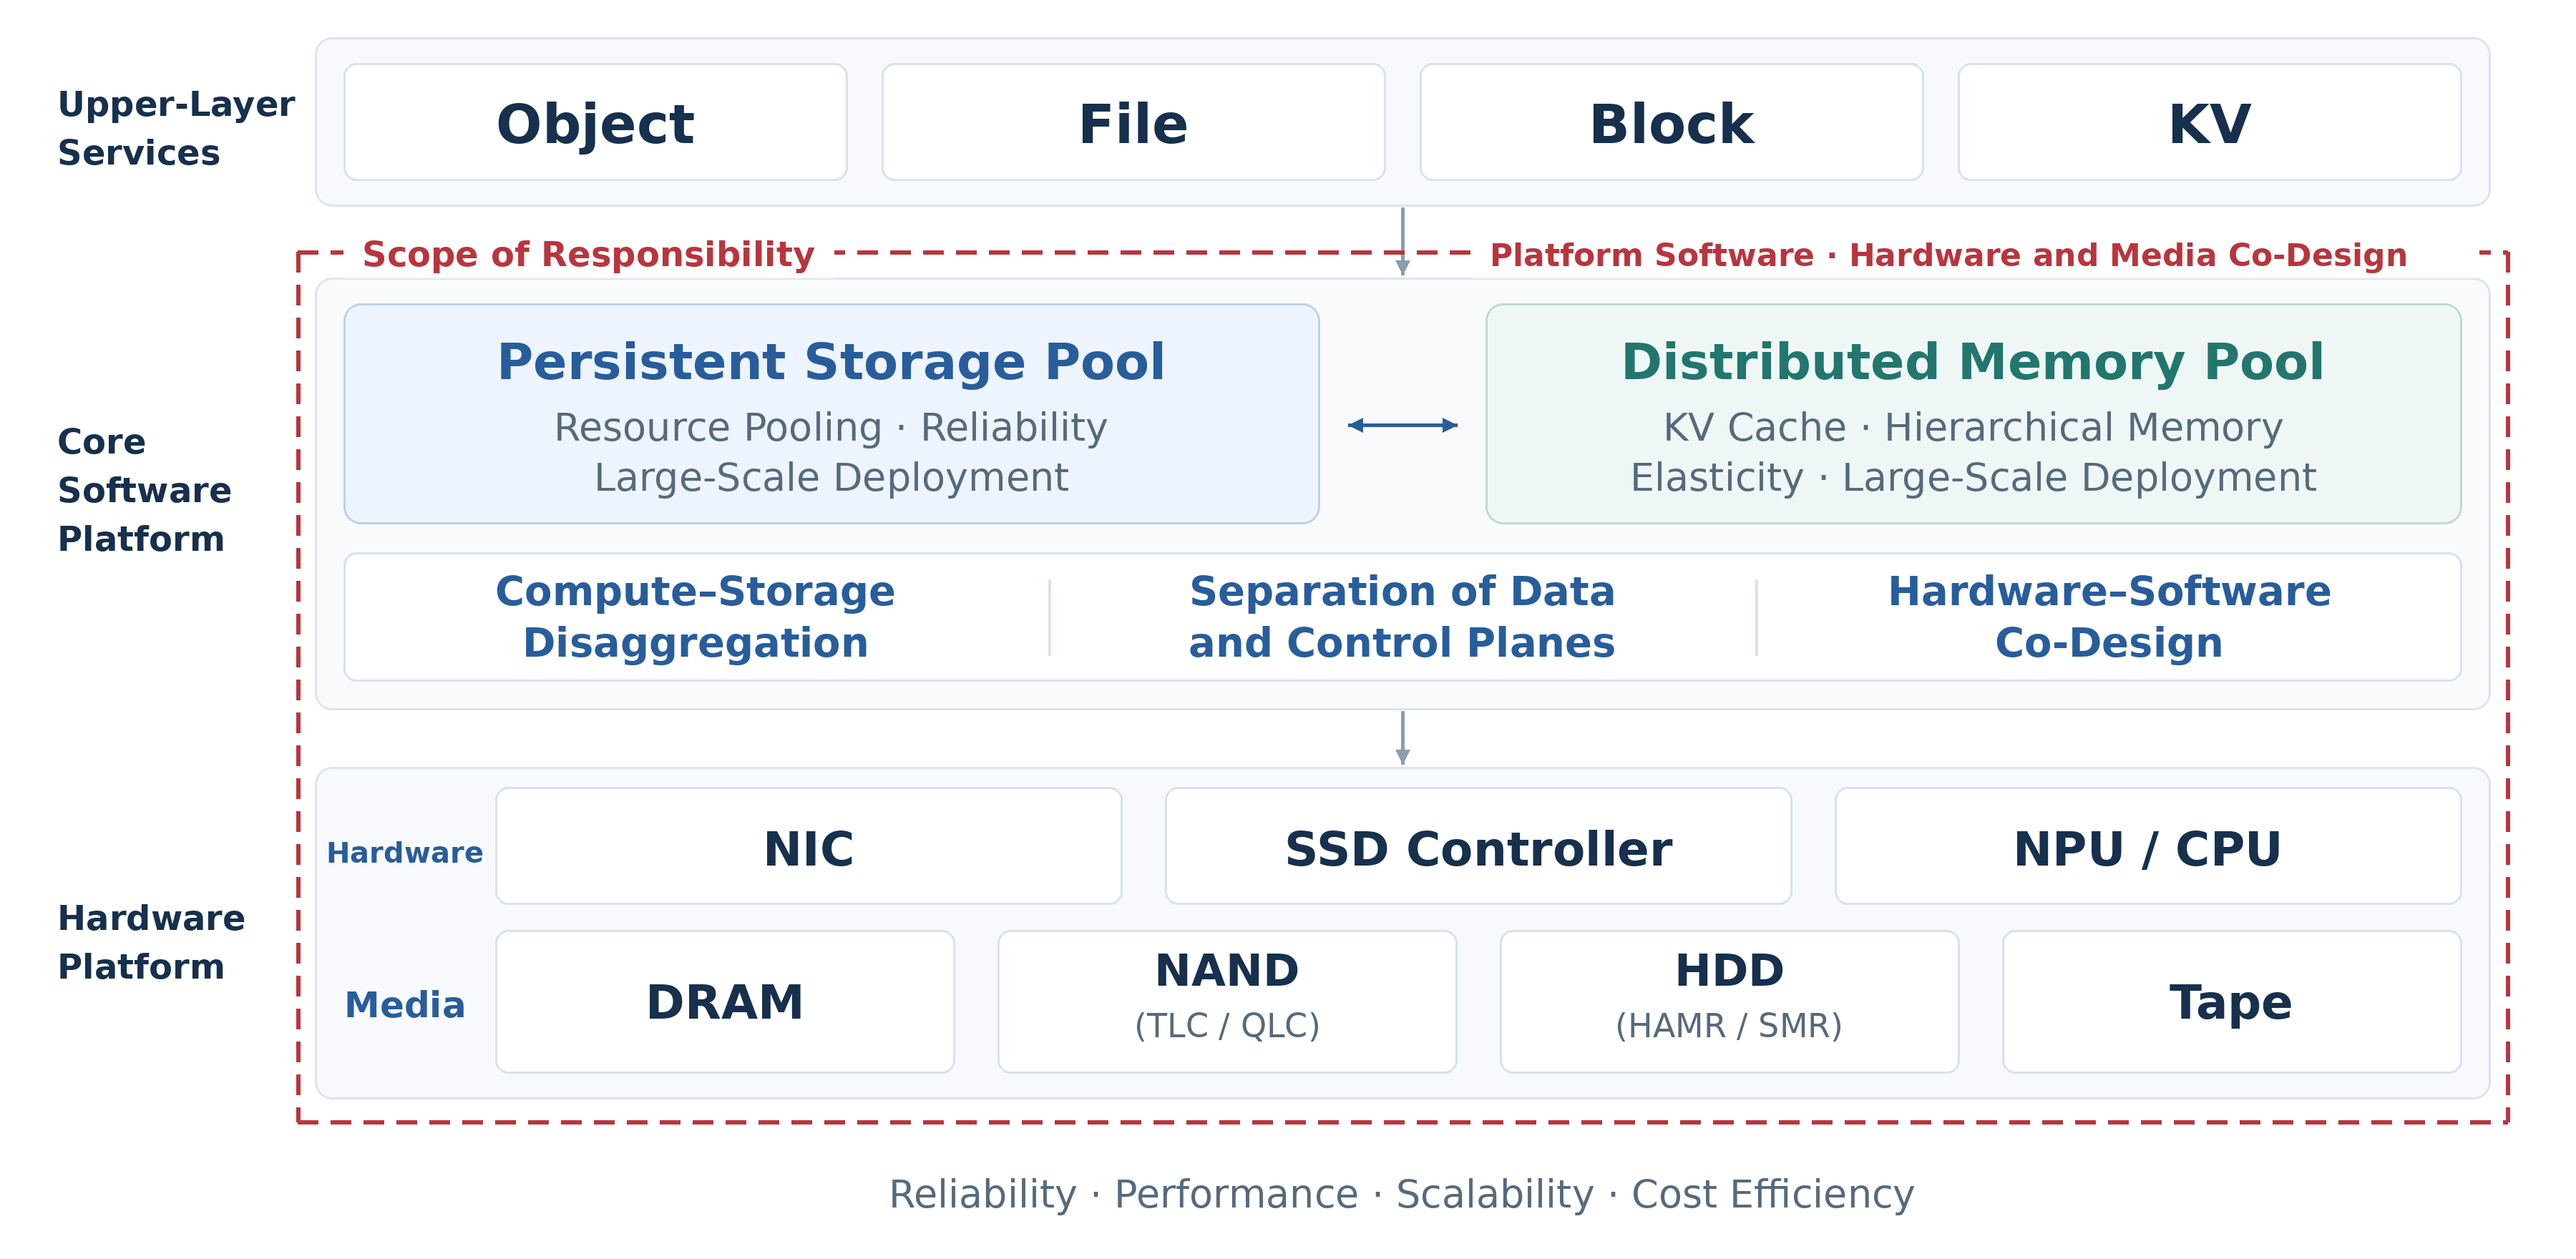
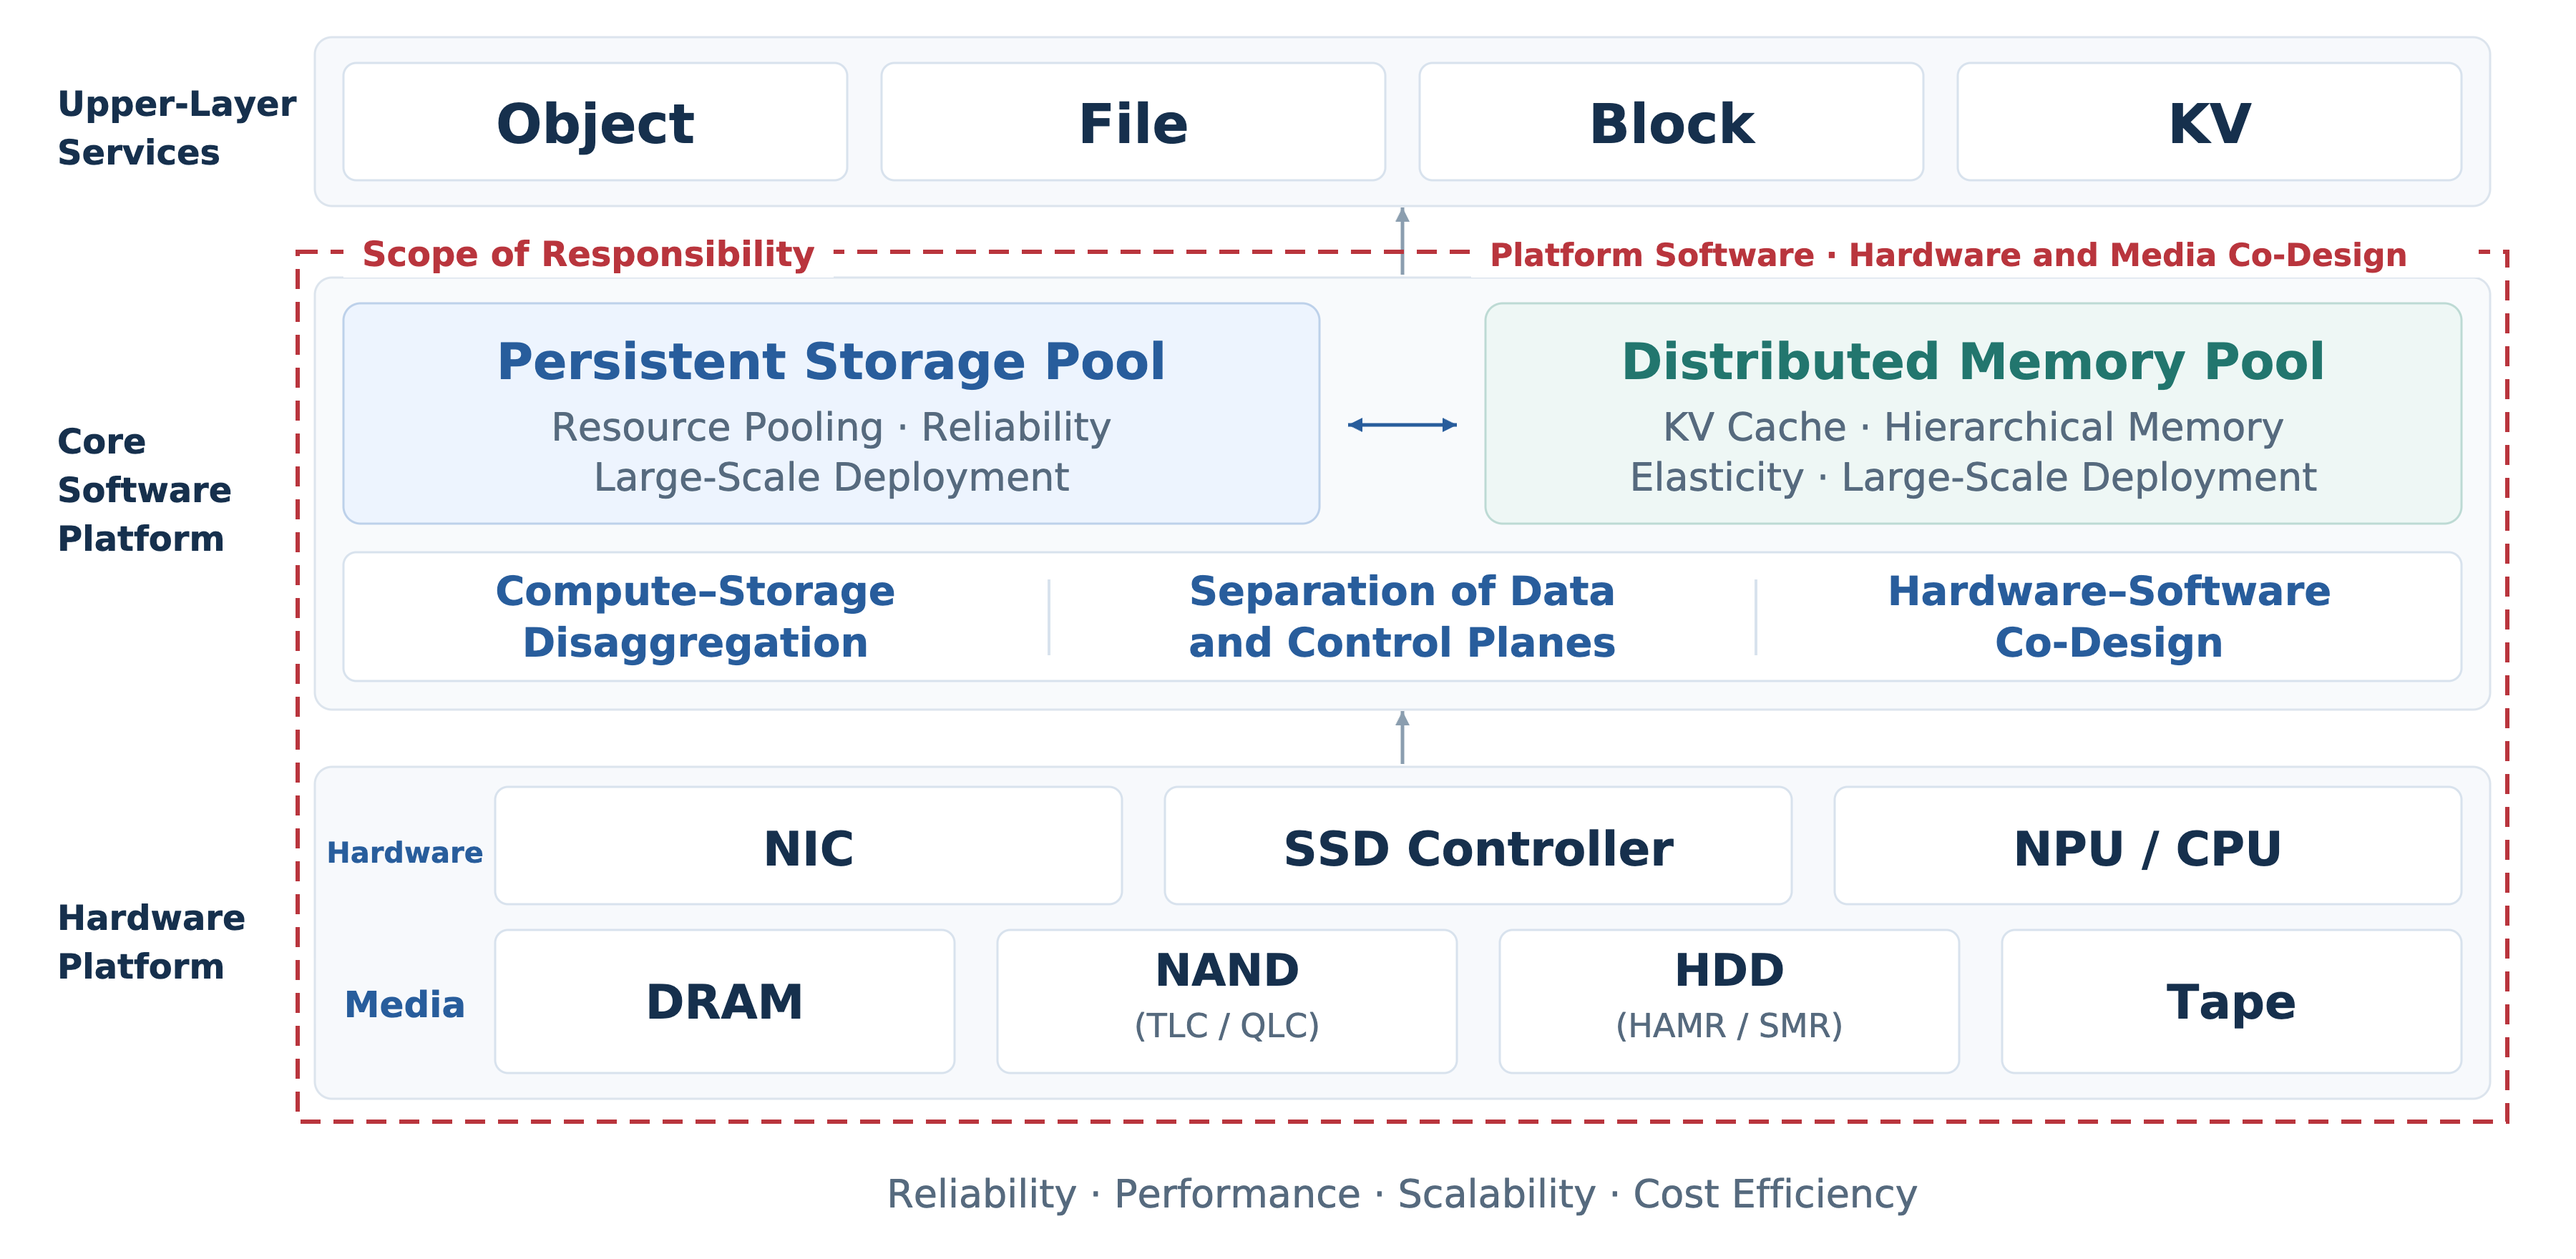
Add engineering manager role and correct architecture support arrows

diff --git a/index.html b/index.html
@@ -5,15 +5,15 @@
   <meta name="viewport" content="width=device-width, initial-scale=1.0, viewport-fit=cover" />
   <meta name="theme-color" content="#ffffff" />
   <title>Fan Yang (杨帆) | yfrank1 | AI &amp; Cloud Storage</title>
-  <meta name="description" content="Fan Yang is a system architect at Huawei Cloud with a Ph.D. from Tsinghua University. His work focuses on distributed storage, storage I/O offloading, and memory systems for AI." />
+  <meta name="description" content="Fan Yang is a system architect and engineering manager at Huawei Cloud with a Ph.D. from Tsinghua University. His work focuses on distributed storage, storage I/O offloading, and memory systems for AI." />
   <meta name="keywords" content="Fan Yang, 杨帆, Huawei Cloud, Tsinghua University, distributed storage, storage architecture, I/O offload, persistent memory, KV cache" />
   <meta name="author" content="Fan Yang" />
   <link rel="canonical" href="https://yfrank1.github.io/" />
   <meta property="og:type" content="website" />
   <meta property="og:url" content="https://yfrank1.github.io/" />
   <meta property="og:title" content="Fan Yang (杨帆) | yfrank1 | AI &amp; Cloud Storage" />
-  <meta property="og:description" content="Fan Yang is a system architect at Huawei Cloud specializing in distributed storage, hardware–software co-design, and memory systems for AI." />
-  <meta property="og:image" content="https://yfrank1.github.io/assets/social-card.png" />
+  <meta property="og:description" content="Fan Yang is a system architect and engineering manager at Huawei Cloud specializing in distributed storage, hardware–software co-design, and memory systems for AI." />
+  <meta property="og:image" content="https://yfrank1.github.io/assets/social-card.png?v=20261113" />
   <meta property="og:image:type" content="image/png" />
   <meta property="og:image:width" content="1200" />
   <meta property="og:image:height" content="630" />
@@ -21,8 +21,8 @@
   <meta property="og:locale" content="en_US" />
   <meta name="twitter:card" content="summary_large_image" />
   <meta name="twitter:title" content="Fan Yang (杨帆) | yfrank1 | AI &amp; Cloud Storage" />
-  <meta name="twitter:description" content="Fan Yang is a system architect at Huawei Cloud specializing in distributed storage, hardware–software co-design, and memory systems for AI." />
-  <meta name="twitter:image" content="https://yfrank1.github.io/assets/social-card.png" />
+  <meta name="twitter:description" content="Fan Yang is a system architect and engineering manager at Huawei Cloud specializing in distributed storage, hardware–software co-design, and memory systems for AI." />
+  <meta name="twitter:image" content="https://yfrank1.github.io/assets/social-card.png?v=20261113" />
   <meta name="twitter:image:alt" content="Fan Yang — AI &amp; Cloud Storage" />
   <link rel="icon" href="assets/favicon.svg" type="image/svg+xml" />
   <link rel="icon" href="assets/favicon-48.png" type="image/png" sizes="48x48" />
@@ -33,7 +33,7 @@
     "@type": "Person",
     "name": "Fan Yang",
     "alternateName": "杨帆",
-    "jobTitle": "System Architect, Cloud Storage",
+    "jobTitle": "System Architect and Engineering Manager, Cloud Storage",
     "worksFor": {
       "@type": "Organization",
       "name": "Huawei Cloud"
@@ -59,7 +59,7 @@
         alt="Fan Yang" class="profile-portrait" width="288" height="395" fetchpriority="high" />
       <div class="info">
         <h1>Fan Yang <span class="name-zh" lang="zh-CN">杨帆</span></h1>
-        <p>System Architect · Huawei Cloud Storage</p>
+        <p>System Architect &amp; Engineering Manager · Huawei Cloud Storage</p>
         <p><a href="mailto:yanggffan@gmail.com" class="email-link">yanggffan@gmail.com</a></p>
         <p class="profile-links">
           <a href="https://scholar.google.com/citations?user=eyyrEU0AAAAJ&amp;hl=en" target="_blank" rel="noopener noreferrer" class="blue-tag">Google Scholar</a>
@@ -76,7 +76,7 @@
     <main id="main">
       <section id="about">
         <h2>About Me</h2>
-        <p>I am a system architect at Huawei Cloud, working on distributed storage and memory systems for AI.
+        <p>I am a system architect and engineering manager at Huawei Cloud, working on distributed storage and memory systems for AI.
           My interests span storage architecture, I/O offloading, and hardware–software co-design,
           with a focus on performance, reliability, and resource efficiency.</p>
         <p>I received my Ph.D. in Computer Science and Technology from <a href="https://www.tsinghua.edu.cn/en/" class="blue-tag">Tsinghua University</a>
@@ -85,7 +85,7 @@
       </section>
       <section id="work">
         <h2>Current Work</h2>
-        <p class="experience-heading"><strong>Huawei Cloud · System Architect, Cloud Storage</strong><span class="period">Jul. 2022 – Present</span></p>
+        <p class="experience-heading"><strong>Huawei Cloud · System Architect &amp; Engineering Manager, Cloud Storage</strong><span class="period">Jul. 2022 – Present</span></p>
         <ul class="work-list">
           <li><strong>Cloud storage architecture.</strong> I lead architectural design and technical planning for storage pools spanning SSDs, HDDs, and tape,
             supporting object, block, and file storage services.</li>
@@ -98,14 +98,14 @@
             and collaborate with university researchers to address practical storage challenges.</li>
         </ul>
         <figure class="work-architecture">
-          <a class="work-architecture-image" href="assets/huawei-work-architecture.png?v=en-20261007" target="_blank" rel="noopener" aria-label="View the storage architecture diagram at full size">
+          <a class="work-architecture-image" href="assets/huawei-work-architecture.png?v=20261113" target="_blank" rel="noopener" aria-label="View the storage architecture diagram at full size">
             <picture>
-              <source media="(max-width: 567px)" srcset="assets/huawei-work-architecture-mobile.svg" width="680" height="1460" />
-              <img src="assets/huawei-work-architecture.svg?v=en-20261007" width="1800" height="880" loading="lazy" decoding="async"
-                alt="Architecture for object, file, block, and KV services, built on a core software platform with persistent storage and distributed memory pools. The dashed boundary highlights my responsibilities for platform software and co-design across software, hardware, and storage media." />
+              <source media="(max-width: 567px)" srcset="assets/huawei-work-architecture-mobile.svg?v=20261113" width="680" height="1460" />
+              <img src="assets/huawei-work-architecture.svg?v=20261113" width="1800" height="880" loading="lazy" decoding="async"
+                alt="Bottom-up architecture: hardware and storage media support the core software platform, which supports object, file, block, and KV services. Upward arrows show this support. The dashed boundary highlights my responsibilities for platform software and co-design across software, hardware, and storage media." />
             </picture>
           </a>
-          <figcaption>Storage platform architecture and scope of responsibility. <a href="assets/huawei-work-architecture.png?v=en-20261007" class="blue-tag" target="_blank" rel="noopener">View diagram at full size</a></figcaption>
+          <figcaption>Storage platform architecture and scope of responsibility. <a href="assets/huawei-work-architecture.png?v=20261113" class="blue-tag" target="_blank" rel="noopener">View diagram at full size</a></figcaption>
         </figure>
       </section>
       <section id="education">

diff --git a/js_index.html b/js_index.html
@@ -5,15 +5,15 @@
   <meta name="viewport" content="width=device-width, initial-scale=1.0, viewport-fit=cover" />
   <meta name="theme-color" content="#ffffff" />
   <title>Fan Yang (杨帆) | yfrank1 | AI &amp; Cloud Storage</title>
-  <meta name="description" content="Fan Yang is a system architect at Huawei Cloud with a Ph.D. from Tsinghua University. His work focuses on distributed storage, storage I/O offloading, and memory systems for AI." />
+  <meta name="description" content="Fan Yang is a system architect and engineering manager at Huawei Cloud with a Ph.D. from Tsinghua University. His work focuses on distributed storage, storage I/O offloading, and memory systems for AI." />
   <meta name="keywords" content="Fan Yang, 杨帆, Huawei Cloud, Tsinghua University, distributed storage, storage architecture, I/O offload, persistent memory, KV cache" />
   <meta name="author" content="Fan Yang" />
   <link rel="canonical" href="https://yfrank1.github.io/" />
   <meta property="og:type" content="website" />
   <meta property="og:url" content="https://yfrank1.github.io/" />
   <meta property="og:title" content="Fan Yang (杨帆) | yfrank1 | AI &amp; Cloud Storage" />
-  <meta property="og:description" content="Fan Yang is a system architect at Huawei Cloud specializing in distributed storage, hardware–software co-design, and memory systems for AI." />
-  <meta property="og:image" content="https://yfrank1.github.io/assets/social-card.png" />
+  <meta property="og:description" content="Fan Yang is a system architect and engineering manager at Huawei Cloud specializing in distributed storage, hardware–software co-design, and memory systems for AI." />
+  <meta property="og:image" content="https://yfrank1.github.io/assets/social-card.png?v=20261113" />
   <meta property="og:image:type" content="image/png" />
   <meta property="og:image:width" content="1200" />
   <meta property="og:image:height" content="630" />
@@ -21,8 +21,8 @@
   <meta property="og:locale" content="en_US" />
   <meta name="twitter:card" content="summary_large_image" />
   <meta name="twitter:title" content="Fan Yang (杨帆) | yfrank1 | AI &amp; Cloud Storage" />
-  <meta name="twitter:description" content="Fan Yang is a system architect at Huawei Cloud specializing in distributed storage, hardware–software co-design, and memory systems for AI." />
-  <meta name="twitter:image" content="https://yfrank1.github.io/assets/social-card.png" />
+  <meta name="twitter:description" content="Fan Yang is a system architect and engineering manager at Huawei Cloud specializing in distributed storage, hardware–software co-design, and memory systems for AI." />
+  <meta name="twitter:image" content="https://yfrank1.github.io/assets/social-card.png?v=20261113" />
   <meta name="twitter:image:alt" content="Fan Yang — AI &amp; Cloud Storage" />
   <link rel="icon" href="assets/favicon.svg" type="image/svg+xml" />
   <link rel="icon" href="assets/favicon-48.png" type="image/png" sizes="48x48" />
@@ -33,7 +33,7 @@
     "@type": "Person",
     "name": "Fan Yang",
     "alternateName": "杨帆",
-    "jobTitle": "System Architect, Cloud Storage",
+    "jobTitle": "System Architect and Engineering Manager, Cloud Storage",
     "worksFor": {
       "@type": "Organization",
       "name": "Huawei Cloud"
@@ -59,7 +59,7 @@
         alt="Fan Yang" class="profile-portrait" width="288" height="395" fetchpriority="high" />
       <div class="info">
         <h1>Fan Yang <span class="name-zh" lang="zh-CN">杨帆</span></h1>
-        <p>System Architect · Huawei Cloud Storage</p>
+        <p>System Architect &amp; Engineering Manager · Huawei Cloud Storage</p>
         <p><a href="mailto:yanggffan@gmail.com" class="email-link">yanggffan@gmail.com</a></p>
         <p class="profile-links">
           <a href="https://scholar.google.com/citations?user=eyyrEU0AAAAJ&amp;hl=en" target="_blank" rel="noopener noreferrer" class="blue-tag">Google Scholar</a>
@@ -76,7 +76,7 @@
     <main id="main">
       <section id="about">
         <h2>About Me</h2>
-        <p>I am a system architect at Huawei Cloud, working on distributed storage and memory systems for AI.
+        <p>I am a system architect and engineering manager at Huawei Cloud, working on distributed storage and memory systems for AI.
           My interests span storage architecture, I/O offloading, and hardware–software co-design,
           with a focus on performance, reliability, and resource efficiency.</p>
         <p>I received my Ph.D. in Computer Science and Technology from <a href="https://www.tsinghua.edu.cn/en/" class="blue-tag">Tsinghua University</a>
@@ -85,7 +85,7 @@
       </section>
       <section id="work">
         <h2>Current Work</h2>
-        <p class="experience-heading"><strong>Huawei Cloud · System Architect, Cloud Storage</strong><span class="period">Jul. 2022 – Present</span></p>
+        <p class="experience-heading"><strong>Huawei Cloud · System Architect &amp; Engineering Manager, Cloud Storage</strong><span class="period">Jul. 2022 – Present</span></p>
         <ul class="work-list">
           <li><strong>Cloud storage architecture.</strong> I lead architectural design and technical planning for storage pools spanning SSDs, HDDs, and tape,
             supporting object, block, and file storage services.</li>
@@ -98,14 +98,14 @@
             and collaborate with university researchers to address practical storage challenges.</li>
         </ul>
         <figure class="work-architecture">
-          <a class="work-architecture-image" href="assets/huawei-work-architecture.png?v=en-20261007" target="_blank" rel="noopener" aria-label="View the storage architecture diagram at full size">
+          <a class="work-architecture-image" href="assets/huawei-work-architecture.png?v=20261113" target="_blank" rel="noopener" aria-label="View the storage architecture diagram at full size">
             <picture>
-              <source media="(max-width: 567px)" srcset="assets/huawei-work-architecture-mobile.svg" width="680" height="1460" />
-              <img src="assets/huawei-work-architecture.svg?v=en-20261007" width="1800" height="880" loading="lazy" decoding="async"
-                alt="Architecture for object, file, block, and KV services, built on a core software platform with persistent storage and distributed memory pools. The dashed boundary highlights my responsibilities for platform software and co-design across software, hardware, and storage media." />
+              <source media="(max-width: 567px)" srcset="assets/huawei-work-architecture-mobile.svg?v=20261113" width="680" height="1460" />
+              <img src="assets/huawei-work-architecture.svg?v=20261113" width="1800" height="880" loading="lazy" decoding="async"
+                alt="Bottom-up architecture: hardware and storage media support the core software platform, which supports object, file, block, and KV services. Upward arrows show this support. The dashed boundary highlights my responsibilities for platform software and co-design across software, hardware, and storage media." />
             </picture>
           </a>
-          <figcaption>Storage platform architecture and scope of responsibility. <a href="assets/huawei-work-architecture.png?v=en-20261007" class="blue-tag" target="_blank" rel="noopener">View diagram at full size</a></figcaption>
+          <figcaption>Storage platform architecture and scope of responsibility. <a href="assets/huawei-work-architecture.png?v=20261113" class="blue-tag" target="_blank" rel="noopener">View diagram at full size</a></figcaption>
         </figure>
       </section>
       <section id="education">
